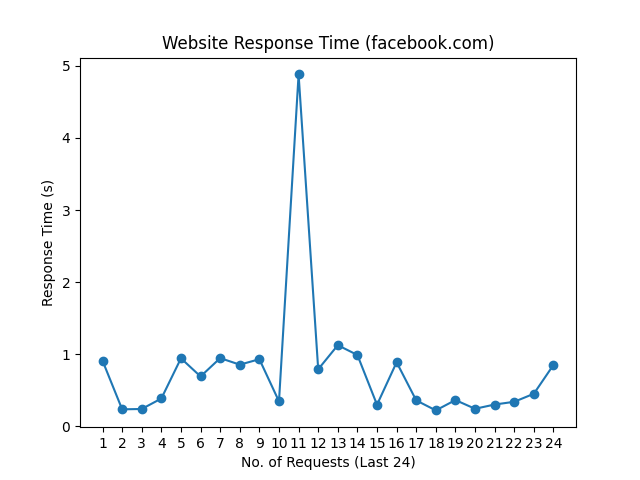
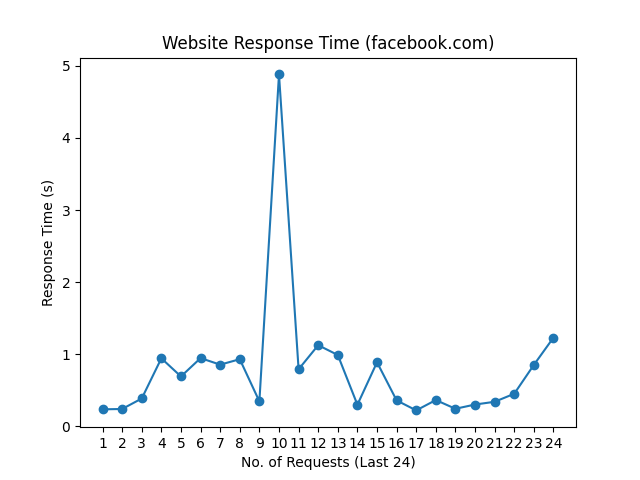
update README.md, history and graph

Changed region(s): [[0.1562, 0.125, 0.875, 0.875]]

diff --git a/README.md b/README.md
@@ -1,10 +1,10 @@
 # Web Monitoring
 
-Last Checked: 04/04/2024 09:01
+Last Checked: 05/04/2024 09:00
 
 | Website | Response Time (s) | Status | Avg Uptime (%) |
 |---------|-------------------|--------|----------------|
 | www.thiswebsiteisdown.net | 0 <br> <img src="graph/thiswebsiteisdown.net.png" alt="Graph" width="200" height="200">  | ❌ Down | 0.00 |
-| www.netflix.com | 1.354794 <br> <img src="graph/netflix.com.png" alt="Graph" width="200" height="200">  | ✅ Up | 100.00 |
-| www.google.com | 0.101006 <br> <img src="graph/google.com.png" alt="Graph" width="200" height="200">  | ✅ Up | 100.00 |
-| www.facebook.com | 0.851235 <br> <img src="graph/facebook.com.png" alt="Graph" width="200" height="200">  | ✅ Up | 100.00 |
+| www.netflix.com | 1.012592 <br> <img src="graph/netflix.com.png" alt="Graph" width="200" height="200">  | ✅ Up | 100.00 |
+| www.google.com | 0.083954 <br> <img src="graph/google.com.png" alt="Graph" width="200" height="200">  | ✅ Up | 100.00 |
+| www.facebook.com | 1.229857 <br> <img src="graph/facebook.com.png" alt="Graph" width="200" height="200">  | ✅ Up | 100.00 |
